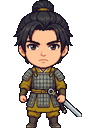
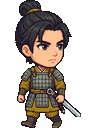
魏續 Q 版換成微側面，走路時才看得出左右

Changed region(s): [[0.125, 0.0, 0.875, 1.0], [0.1875, 0.1562, 0.2188, 0.1875]]

diff --git a/scripts/gen_weixu_side.py b/scripts/gen_weixu_side.py
@@ -1,0 +1,22 @@
+import base64,json,os,urllib.request,threading
+KEY=[l.split("=",1)[1].strip().strip('"') for l in open(os.path.expanduser("~/.bashrc")) if "GEMINI_IMAGE_KEY=" in l][0]
+URL="https://ching-tech.ddns.net/gemini-web/v1beta/models/gemini-3.1-flash-image-preview:generateContent"
+ref=base64.b64encode(open("sd/weixu_raw.png","rb").read()).decode()
+P=("Image 1 is Wei Xu, a chibi pixel-art game sprite. Redraw the SAME character in the SAME chunky pixel-art style, same 2-heads-tall proportions, "
+ "same face, hair, ochre robe, iron scale armor and ring-pommel saber, but change the pose to a three-quarter side view: "
+ "his head, face and body are turned about 45 degrees toward the RIGHT side of the image, he looks to the right, one foot slightly in front as if about to walk right. "
+ "The saber is held in his right hand pointing down. Whole body visible with feet, centered, fills about 80% of the image height. "
+ "Background: one flat solid pure green #00FF00 everywhere, no ground shadow, no other objects, no text.")
+def job(i):
+    body={"contents":[{"role":"user","parts":[{"inlineData":{"mimeType":"image/png","data":ref}},{"text":P}]}],
+          "generationConfig":{"responseModalities":["IMAGE"],"imageConfig":{"aspectRatio":"1:1"}}}
+    for t in range(3):
+        try:
+            r=urllib.request.Request(URL,data=json.dumps(body).encode(),method="POST",headers={"x-goog-api-key":KEY,"Content-Type":"application/json"})
+            j=json.loads(urllib.request.urlopen(r,timeout=450).read())
+            for p in j["candidates"][0]["content"]["parts"]:
+                d=p.get("inlineData") or p.get("inline_data")
+                if d: open(f"sd/weixu_side{i}_raw.png","wb").write(base64.b64decode(d["data"])); print(i,"OK",flush=True); return
+            print(i,"no image",str(j)[:300],flush=True)
+        except Exception as e: print(i,"ERR",e,flush=True)
+ts=[threading.Thread(target=job,args=(i,)) for i in (1,2)]; [t.start() for t in ts]; [t.join() for t in ts]
